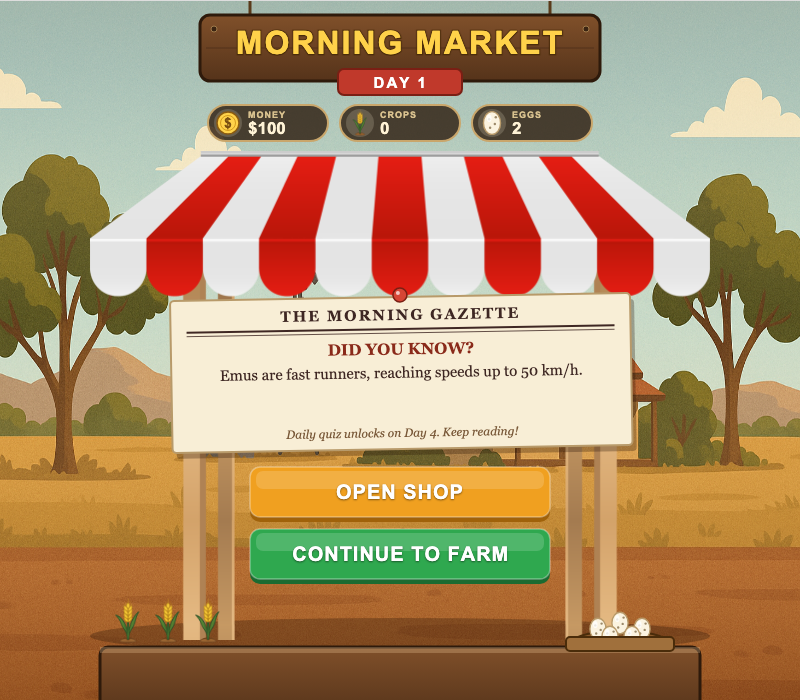
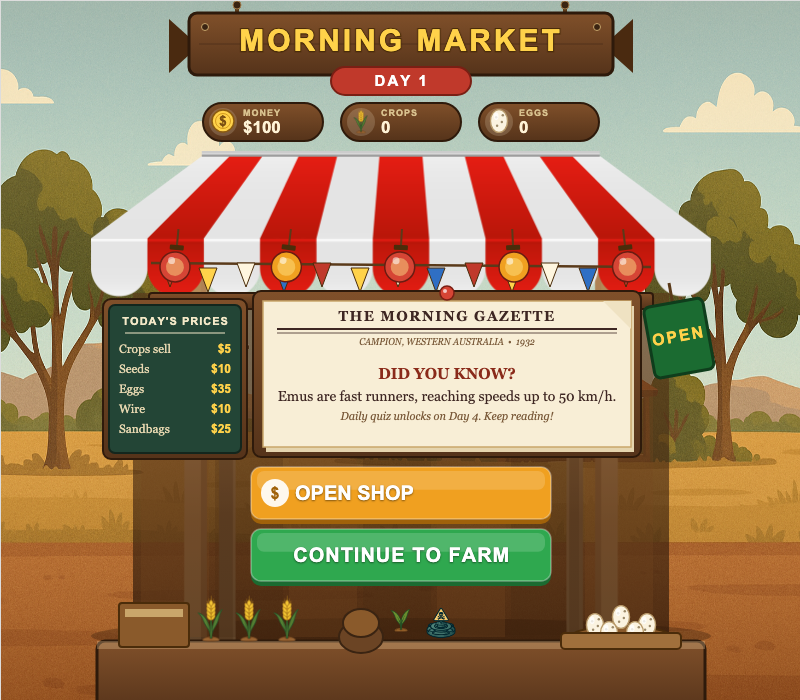
Update market screenshot

diff --git a/README.md b/README.md
@@ -22,7 +22,7 @@ No install needed.
 
 ![Farm field: grassy crop plot with wooden HUD, dirt path, and a sandbag ready to place](docs/screenshots/farm-field.png)
 
-![Morning market stall with the gazette, wallet chips, and shop buttons](docs/screenshots/market.png)
+![Morning market stall with lanterns, a prices chalkboard, the gazette, and shop buttons](docs/screenshots/market.png)
 
 ![Egg raid intro: Night Raid controls and objectives](docs/screenshots/egg-raid-intro.png)
 
